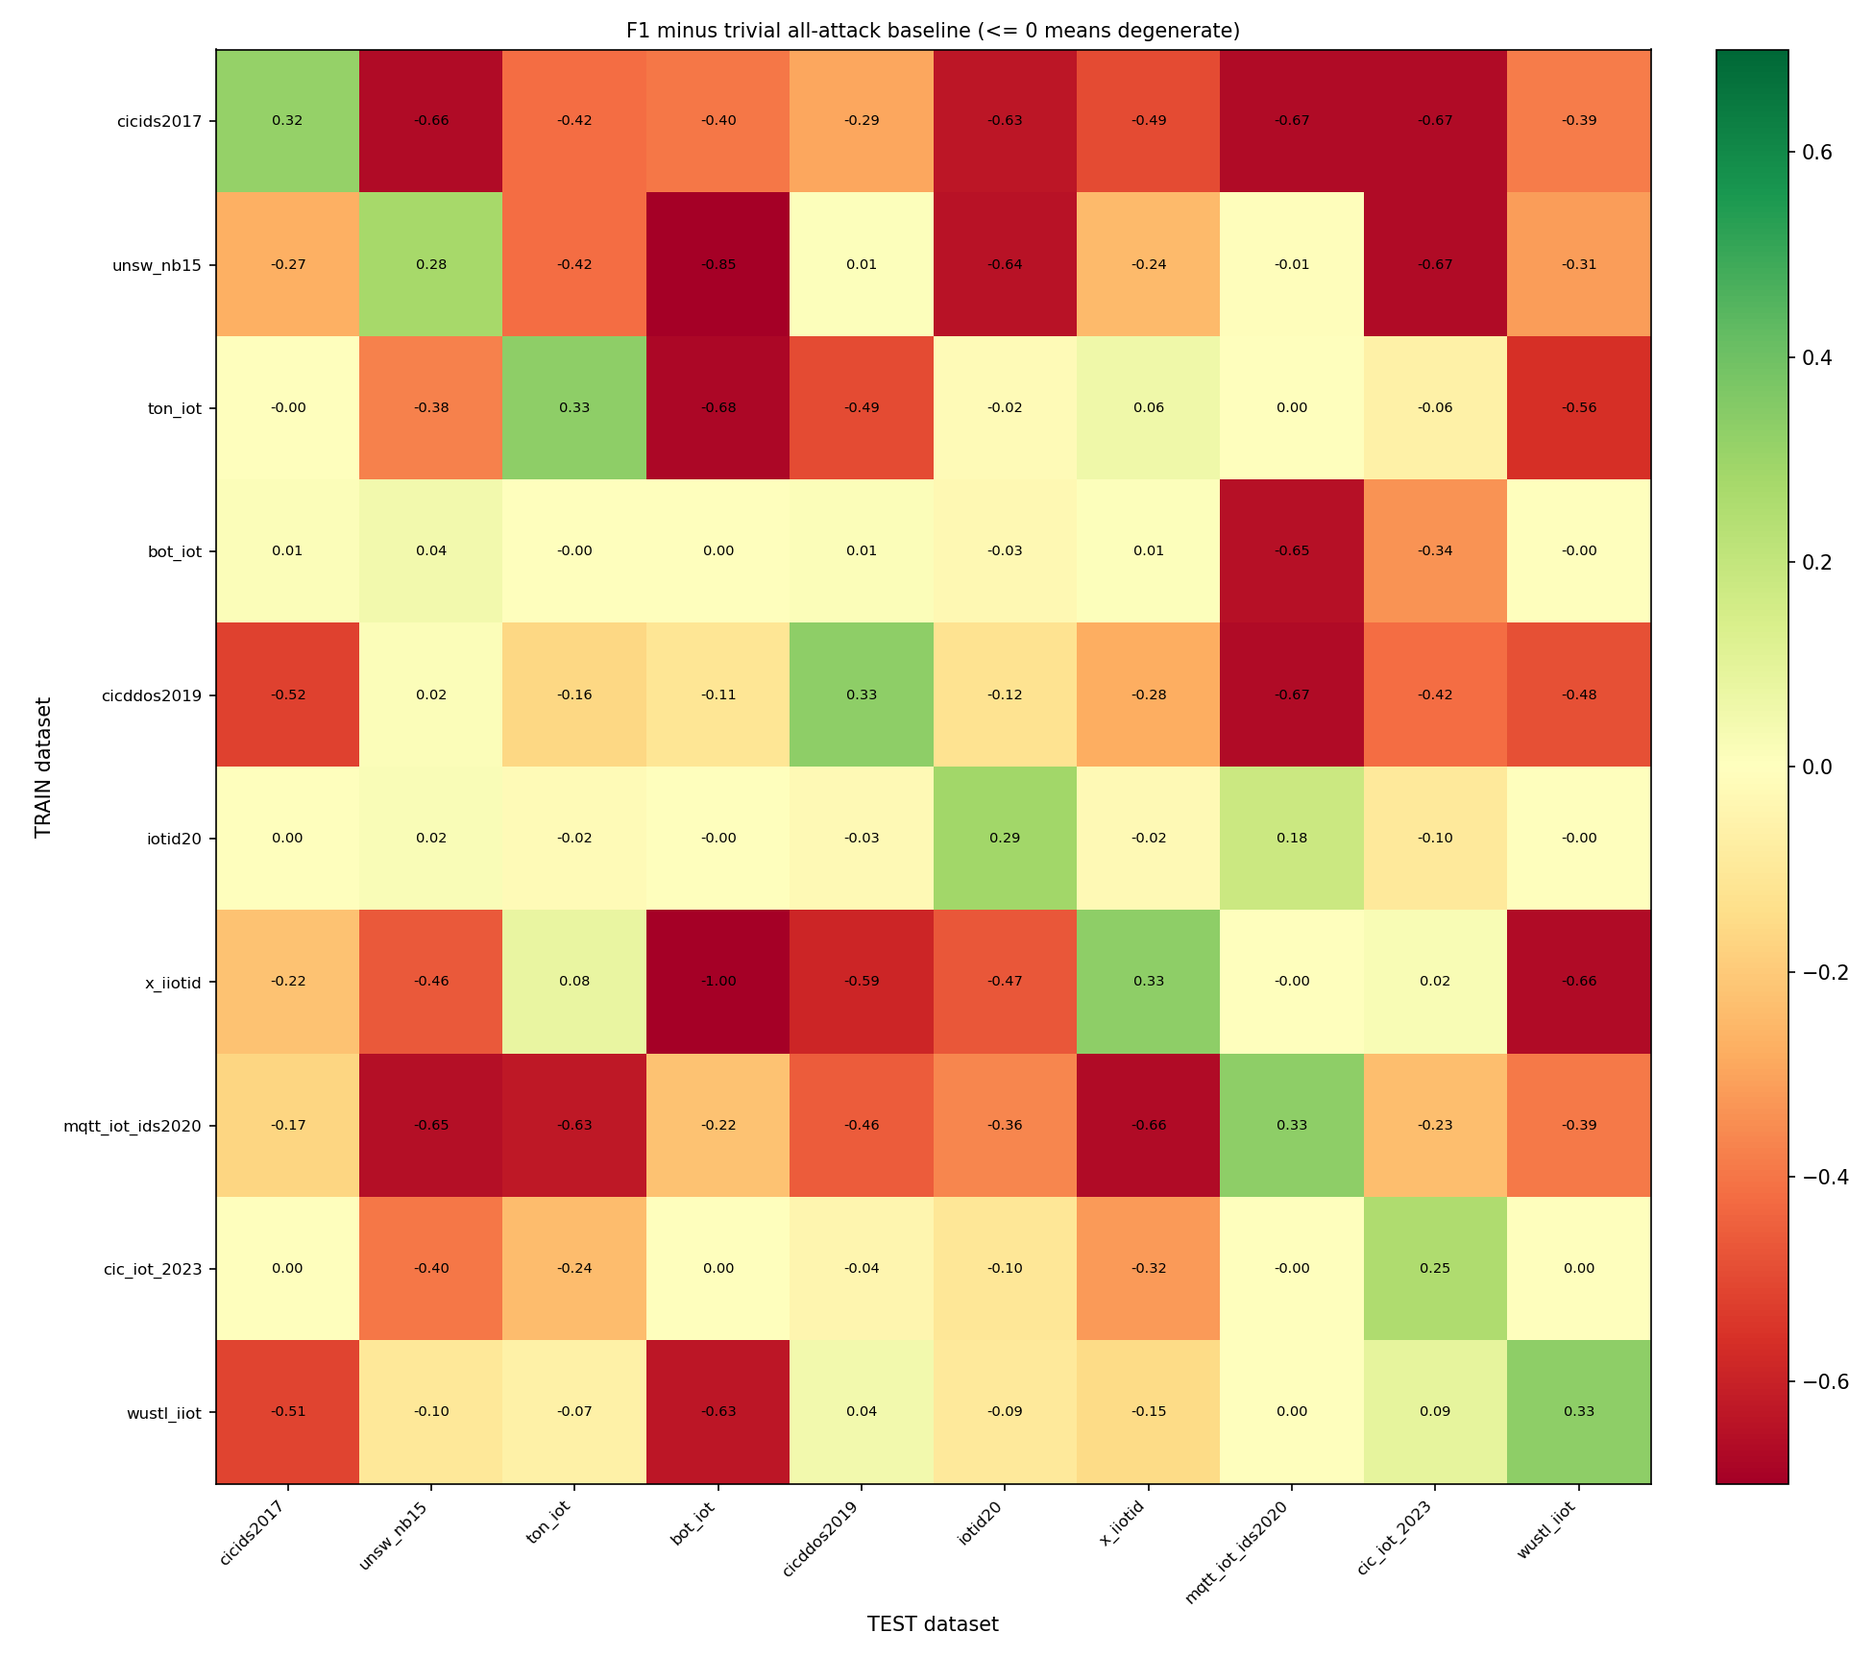
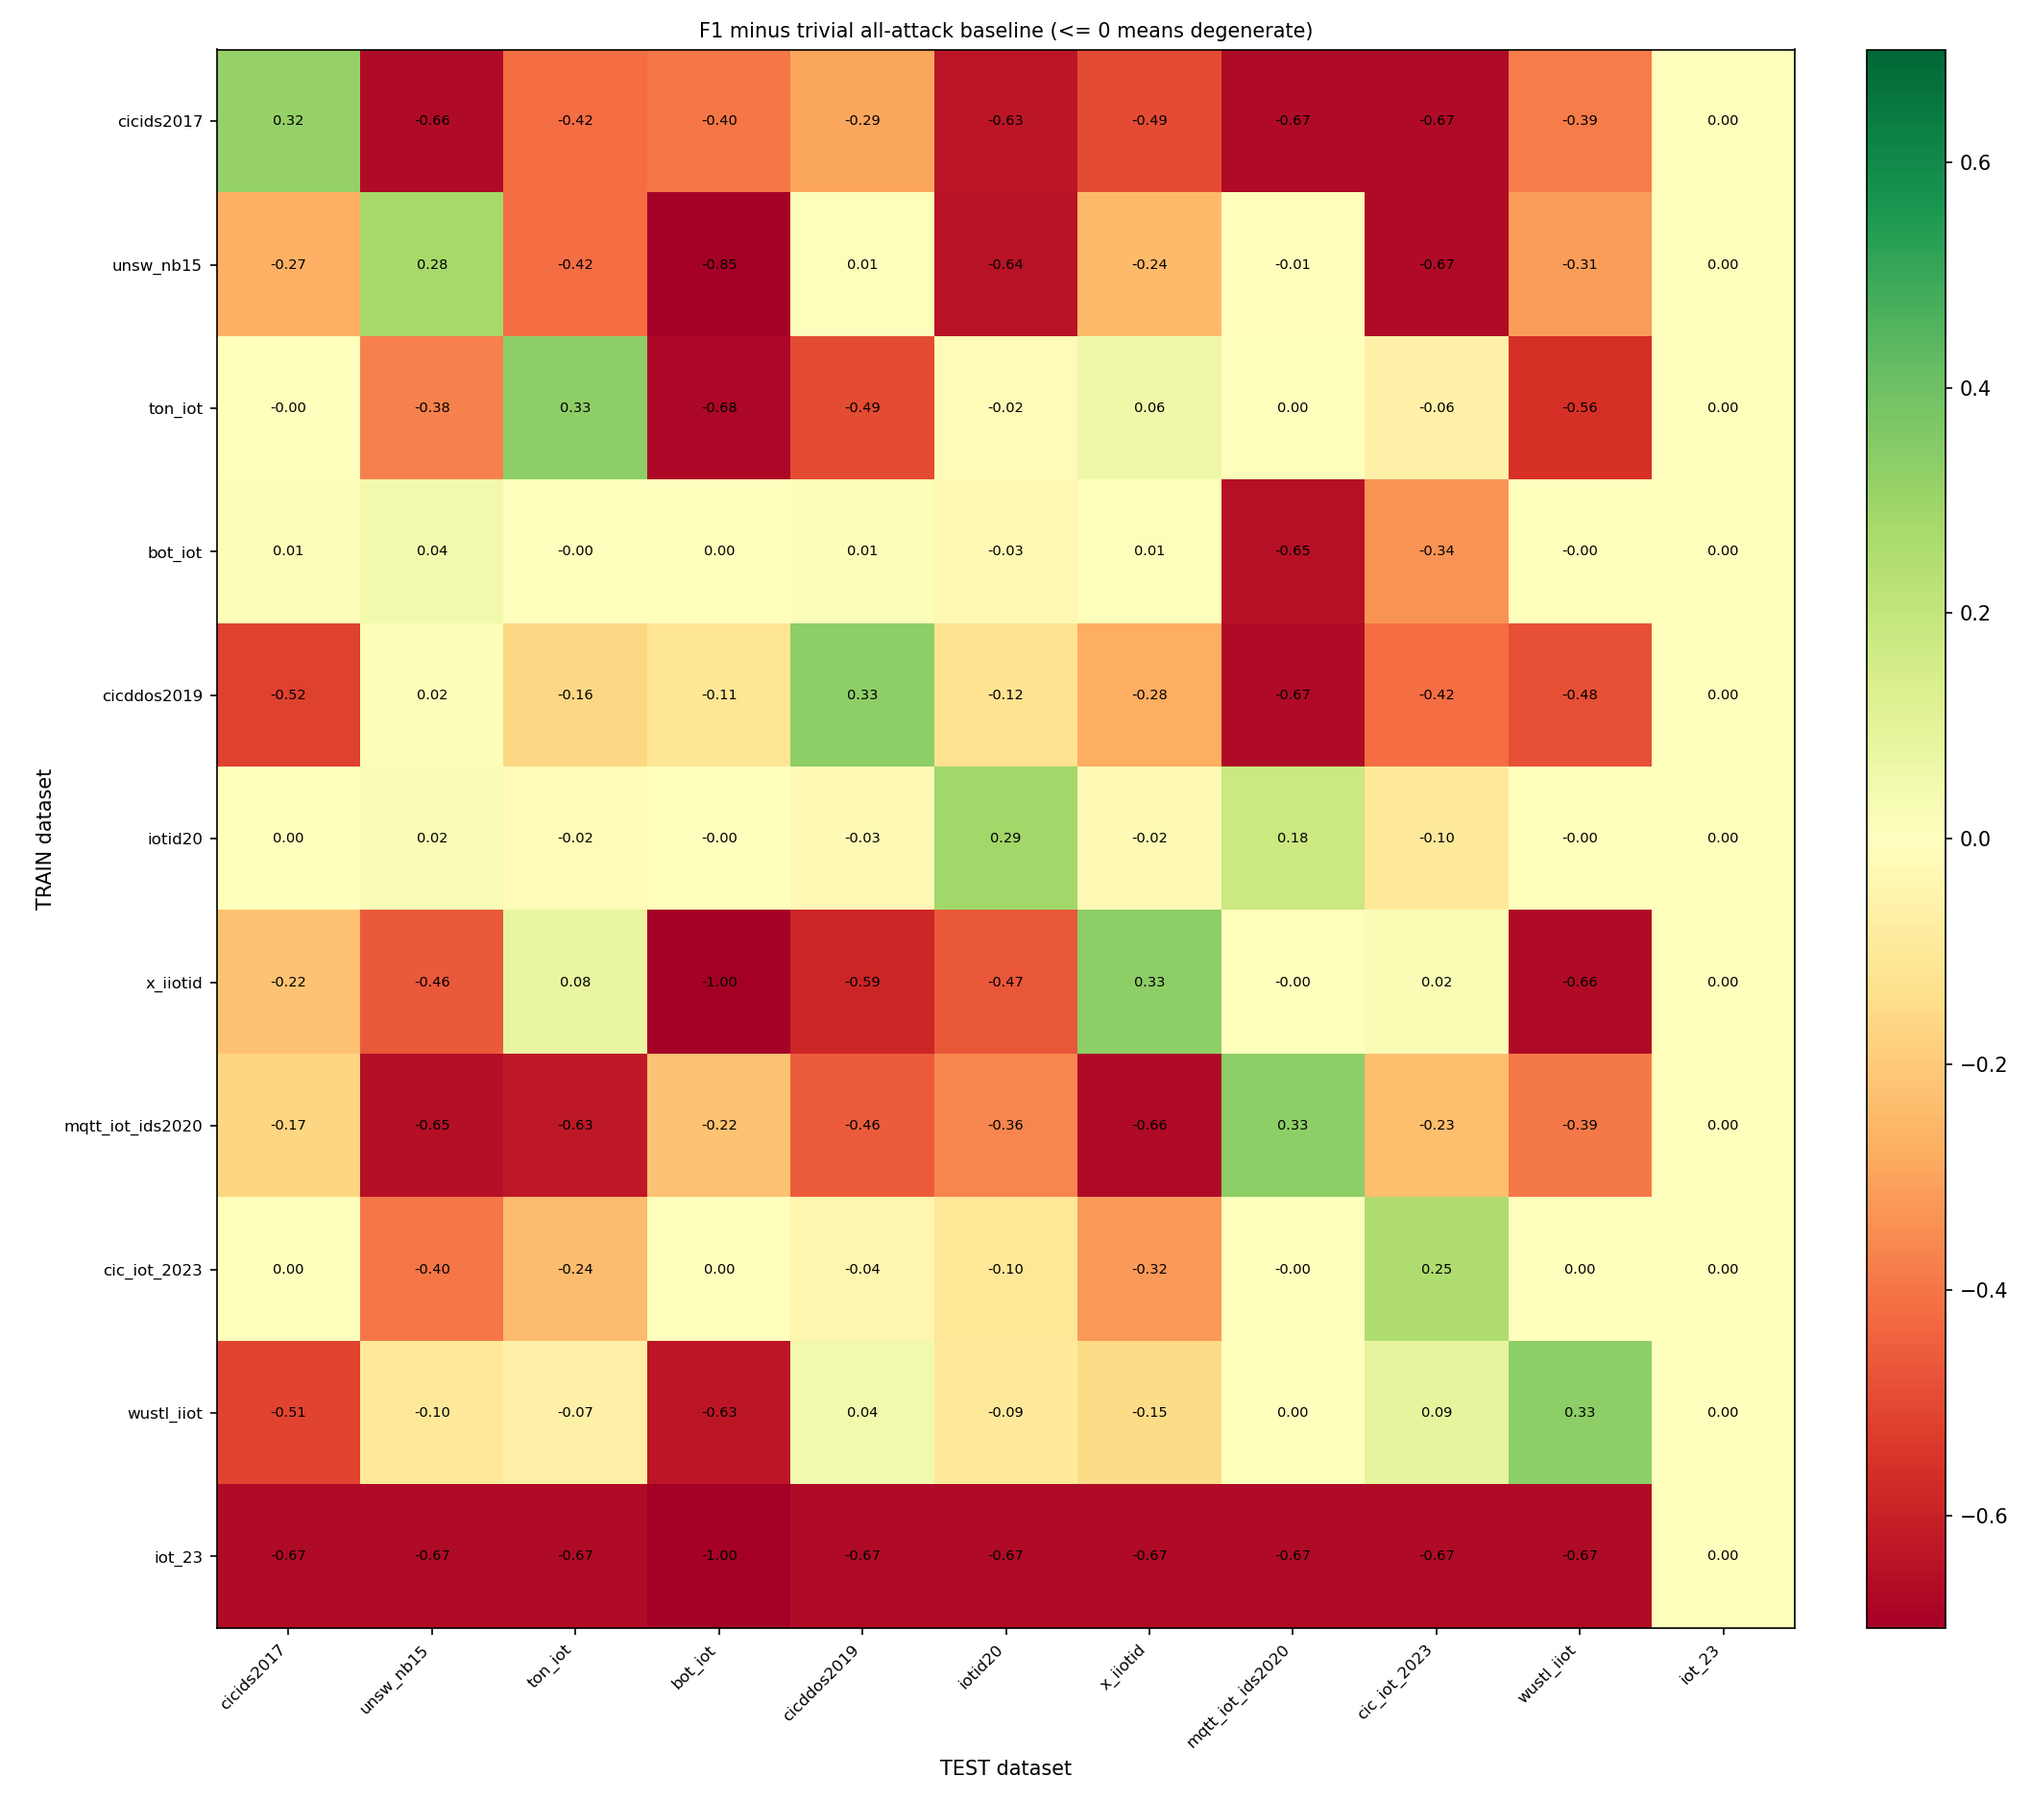
Export incidents to a SIEM over syslog as CEF
A sensor that only writes a local JSONL file cannot participate in anything
larger than itself. Adds --syslog HOST[:PORT] with --syslog-format cef|json.

CEF is the widest-support option - Splunk, QRadar, Sentinel and Elastic all
parse it - and RFC 5424 syslog over UDP needs nothing beyond the stdlib, so
the Pi runtime set is unchanged. Severity is mapped from the coarse attack
category, and flow counts, destination breadth, volume and confidence travel
as CEF custom fields.

Delivery is best-effort by design: a SIEM that is down or unreachable must not
take the sensor with it, so send failures are counted and surfaced in the exit
summary rather than raised. AlertLog fans out to any configured sinks.

The test asserts the RFC 5424 framing, parses the CEF payload back apart,
checks severity tracks category, checks the JSON format, checks AlertLog
fan-out, and points a sink at TEST-NET-1 to confirm an unreachable collector
is survivable. Suite now 39 passed.

diff --git a/src/ids_daemon.py b/src/ids_daemon.py
@@ -169,6 +169,78 @@ def fmt_incident(a):
             f"{a['n_dst_ips']:>3} dst-ips  {a['pkts']:>6} pkts  {conf}")
 
 
+class SyslogSink:
+    """Emit incidents to a SIEM over syslog, as CEF or JSON.
+
+    A sensor that only writes a local JSONL file cannot participate in anything
+    larger than itself. CEF (ArcSight Common Event Format) is the widest-support
+    option — Splunk, QRadar, Sentinel and Elastic all parse it — and RFC 5424
+    syslog over UDP needs no dependency beyond the stdlib, which keeps the Pi
+    runtime as it is.
+
+    Delivery is best-effort by design: a SIEM that is down or unreachable must
+    never take the sensor with it, so send failures are counted and reported,
+    not raised.
+    """
+
+    # coarse category -> CEF severity (0-10)
+    SEVERITY = {"recon": 3, "bruteforce": 5, "dos": 7, "botnet": 8, "attack": 5}
+    FACILITY = 13          # log audit
+    PRIORITY = FACILITY * 8 + 4      # facility * 8 + severity(warning)
+
+    def __init__(self, target, fmt="cef", product="IoT-IDS", vendor="IoT-IDS",
+                 version="1.0"):
+        import socket as _socket
+        host, _, port = target.partition(":")
+        self.addr = (host, int(port) if port else 514)
+        self.fmt = fmt
+        self.product, self.vendor, self.version = product, vendor, version
+        self.sock = _socket.socket(_socket.AF_INET, _socket.SOCK_DGRAM)
+        self.host = _socket.gethostname()
+        self.sent = 0
+        self.failed = 0
+
+    @staticmethod
+    def _esc(v):
+        """CEF extension values escape backslash and equals."""
+        return str(v).replace("\\", "\\\\").replace("=", "\\=")
+
+    def _cef(self, a, category):
+        sev = self.SEVERITY.get(category, 5)
+        ext = " ".join(f"{k}={self._esc(v)}" for k, v in (
+            ("src", a["src_ip"]),
+            ("proto", PROTO_NAME.get(a["proto"], a["proto"])),
+            ("cnt", a["flows"]),
+            ("cs1Label", "dstPorts"), ("cs1", a["n_dst_ports"]),
+            ("cs2Label", "dstIps"), ("cs2", a["n_dst_ips"]),
+            ("cn1Label", "packets"), ("cn1", a["pkts"]),
+            ("cn2Label", "bytes"), ("cn2", a["bytes"]),
+            ("cfp1Label", "confidence"), ("cfp1", round(a["avg_conf"], 4)),
+        ))
+        # CEF header pipes must be escaped; our fields never contain one
+        return (f"CEF:0|{self.vendor}|{self.product}|{self.version}|"
+                f"{a['kind']}|{category}/{a['kind']}|{sev}|{ext}")
+
+    def emit(self, a, category="attack"):
+        ts = dt.datetime.now().astimezone().isoformat(timespec="seconds")
+        if self.fmt == "cef":
+            body = self._cef(a, category)
+        else:
+            body = json.dumps({"ts": ts, "category": category, **{
+                k: v for k, v in a.items()}})
+        msg = f"<{self.PRIORITY}>1 {ts} {self.host} {self.product} - - - {body}"
+        try:
+            self.sock.sendto(msg.encode("utf-8", "replace")[:65000], self.addr)
+            self.sent += 1
+        except Exception:
+            # a dead SIEM must not take the sensor down with it
+            self.failed += 1
+
+    def status(self):
+        return (f"syslog {self.addr[0]}:{self.addr[1]} fmt={self.fmt} "
+                f"sent={self.sent} failed={self.failed}")
+
+
 class AlertLog:
     """Append-only JSONL alert feed with size-based rotation.
 
@@ -178,7 +250,7 @@ class AlertLog:
     the dashboard detects the rotation and re-reads cleanly.
     """
 
-    def __init__(self, path, max_bytes=32 * 1024 * 1024, backups=3):
+    def __init__(self, path, max_bytes=32 * 1024 * 1024, backups=3, sinks=None):
         os.makedirs(os.path.dirname(path), exist_ok=True)
         self.path = path
         self.max_bytes = max_bytes
@@ -186,6 +258,7 @@ class AlertLog:
         self.fh = open(path, "a")
         self.n = 0
         self.by_kind = collections.Counter()
+        self.sinks = list(sinks or [])      # e.g. SyslogSink, fanned out to
 
     def _rotate_if_needed(self):
         if self.max_bytes <= 0:
@@ -212,6 +285,8 @@ class AlertLog:
                "dst_ips": a["n_dst_ips"], "dst_ports": a["n_dst_ports"],
                "confidence": round(a["avg_conf"], 4)}
         self.fh.write(json.dumps(rec) + "\n"); self.fh.flush()
+        for sink in self.sinks:
+            sink.emit(a, CATEGORIES.get(a["kind"], "attack"))
         self._rotate_if_needed()
 
     def close(self):
@@ -398,6 +473,12 @@ def main():
     ap.add_argument("--model", default=DEFAULT_MODEL)
     ap.add_argument("--meta", default=DEFAULT_META)
     ap.add_argument("--log", default=os.path.join(ROOT, "logs", "alerts.jsonl"))
+    ap.add_argument("--syslog", default=None, metavar="HOST[:PORT]",
+                    help="also send incidents to a SIEM over syslog/UDP "
+                         "(default port 514)")
+    ap.add_argument("--syslog-format", default="cef", choices=("cef", "json"),
+                    dest="syslog_format",
+                    help="wire format for --syslog (default cef)")
     ap.add_argument("--log-max-mb", type=int, default=32, dest="log_max_mb",
                     help="rotate the alert log past this size, 0 = never "
                          "(default 32)")
@@ -435,7 +516,11 @@ def main():
     args = ap.parse_args()
 
     det = Detector(args.model, args.meta)
-    alog = AlertLog(args.log, max_bytes=args.log_max_mb * 1024 * 1024)
+    sinks = []
+    if args.syslog:
+        sinks.append(SyslogSink(args.syslog, fmt=args.syslog_format))
+        print(CYA(f"[SIEM] {sinks[0].status()}"))
+    alog = AlertLog(args.log, max_bytes=args.log_max_mb * 1024 * 1024, sinks=sinks)
 
     responder = None
     if args.ips or args.prevent:
@@ -463,6 +548,8 @@ def main():
                      responder=responder)
     finally:
         alog.close()
+        for sink in sinks:
+            print(DIM(f"[SIEM] {sink.status()}"))
 
 
 if __name__ == "__main__":

diff --git a/tests/smoke_test.py b/tests/smoke_test.py
@@ -479,6 +479,63 @@ def t_c_export():
                        check=True, capture_output=True)
 
 
+def t_syslog_cef_sink():
+    """Incidents reach a SIEM as parseable CEF, and a dead SIEM is survivable."""
+    import socket, re
+    from ids_daemon import SyslogSink, AlertLog
+
+    srv = socket.socket(socket.AF_INET, socket.SOCK_DGRAM)
+    srv.bind(("127.0.0.1", 0))
+    srv.settimeout(3)
+    port = srv.getsockname()[1]
+
+    inc = {"src_ip": "203.0.113.7", "kind": "portscan", "proto": 6, "flows": 593,
+           "pkts": 1186, "bytes": 71160, "n_dst_ips": 1, "n_dst_ports": 593,
+           "avg_conf": 0.9812}
+    sink = SyslogSink(f"127.0.0.1:{port}", fmt="cef")
+    sink.emit(dict(inc), "recon")
+    msg = srv.recvfrom(65535)[0].decode()
+
+    # RFC 5424 framing then a CEF payload
+    assert msg.startswith("<"), msg[:40]
+    m = re.search(r"CEF:0\|([^|]*)\|([^|]*)\|([^|]*)\|([^|]*)\|([^|]*)\|(\d+)\|(.*)$", msg)
+    assert m, f"not parseable CEF: {msg}"
+    vendor, product, ver, sig, name, sev, ext = m.groups()
+    assert sig == "portscan" and name == "recon/portscan"
+    assert int(sev) == SyslogSink.SEVERITY["recon"]
+    kv = dict(p.split("=", 1) for p in ext.split(" ") if "=" in p)
+    assert kv["src"] == "203.0.113.7" and kv["cnt"] == "593"
+    assert kv["cs1Label"] == "dstPorts" and kv["cs1"] == "593"
+    assert kv["cfp1"] == "0.9812"
+    assert sink.sent == 1 and sink.failed == 0
+
+    # severity tracks category
+    sink.emit(dict(inc, kind="mirai"), "botnet")
+    assert f"|{SyslogSink.SEVERITY['botnet']}|" in srv.recvfrom(65535)[0].decode()
+
+    # json format is accepted too
+    sj = SyslogSink(f"127.0.0.1:{port}", fmt="json")
+    sj.emit(dict(inc), "recon")
+    body = srv.recvfrom(65535)[0].decode().split("- - - ", 1)[1]
+    assert json.loads(body)["src_ip"] == "203.0.113.7"
+    srv.close()
+
+    # AlertLog fans out to sinks
+    log = os.path.join(TMP, "siem", "alerts.jsonl")
+    srv2 = socket.socket(socket.AF_INET, socket.SOCK_DGRAM)
+    srv2.bind(("127.0.0.1", 0)); srv2.settimeout(3)
+    s2 = SyslogSink(f"127.0.0.1:{srv2.getsockname()[1]}")
+    alog = AlertLog(log, sinks=[s2])
+    alog.emit(dict(inc)); alog.close()
+    assert b"CEF:0" in srv2.recvfrom(65535)[0]
+    srv2.close()
+
+    # an unreachable SIEM must never take the sensor down
+    dead = SyslogSink("192.0.2.1:9")          # TEST-NET-1, black hole
+    dead.emit(dict(inc), "recon")
+    assert dead.sent + dead.failed == 1, "send neither succeeded nor was counted"
+
+
 def t_dashboard():
     import importlib.util, urllib.request, urllib.error, threading, json as _json
     from http.server import ThreadingHTTPServer
@@ -934,6 +991,7 @@ TESTS = [
         ("SFAF alignment contract", t_alignment_contract),
         ("multidataset taxonomy", t_multidataset_taxonomy),
         ("trivial-baseline guard", t_trivial_baseline),
+        ("syslog/CEF SIEM export", t_syslog_cef_sink),
         ("web dashboard", t_dashboard),
         ("dashboard auth + binding", t_dashboard_auth_and_binding),
         ("dashboard token file", t_dashboard_token_file),

diff --git a/code/multidataset.py b/code/multidataset.py
@@ -515,7 +515,21 @@ def load_ciciot2023(root):
 
 def _read_zeek(path, usecols=None):
     """Parse a Zeek TSV log (conn.log.labeled): '#fields' line gives columns,
-    '#' lines are comments, tab-separated, '-' means empty."""
+    '#' lines are comments, tab-separated, '-' means empty.
+
+    IoT-23 quirk: its labelled conn logs separate the final
+    `tunnel_parents / label / detailed-label` triple with **spaces** rather
+    than tabs, in both the #fields header and the data rows:
+
+        #fields  ts  uid  ...  resp_ip_bytes  tunnel_parents   label   detailed-label
+        ...      ...          0              (empty)   Malicious   PartOfAHorizontalPortScan
+
+    Splitting on tabs alone therefore yields one column literally named
+    "tunnel_parents   label   detailed-label", no `label` column at all, and a
+    loader that silently reads every row as benign — which is how IoT-23, a
+    malware-capture dataset, came out 0.0% attack. Any column name containing
+    whitespace is treated as a composite and expanded.
+    """
     fields = None
     with open(path, "r", errors="ignore") as f:
         for line in f:
@@ -526,6 +540,13 @@ def _read_zeek(path, usecols=None):
         return pd.DataFrame()
     df = pd.read_csv(path, sep="\t", comment="#", names=fields,
                      na_values="-", low_memory=False)
+    for col in list(df.columns):
+        parts = col.split()
+        if len(parts) > 1:
+            sub = df[col].astype(str).str.split(r"\s+", expand=True)
+            for j, name in enumerate(parts):
+                df[name] = sub[j] if j < sub.shape[1] else np.nan
+            df = df.drop(columns=[col])
     return df
 
 
